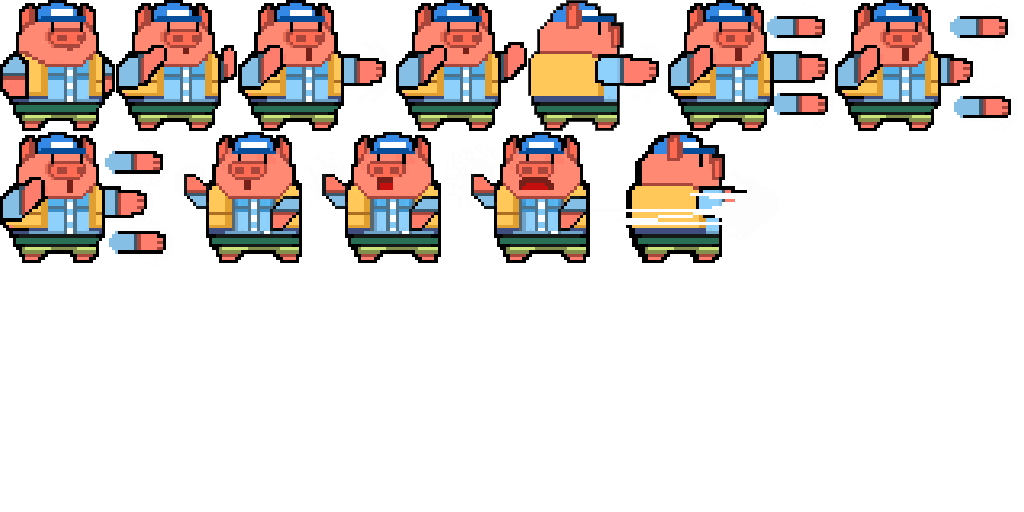
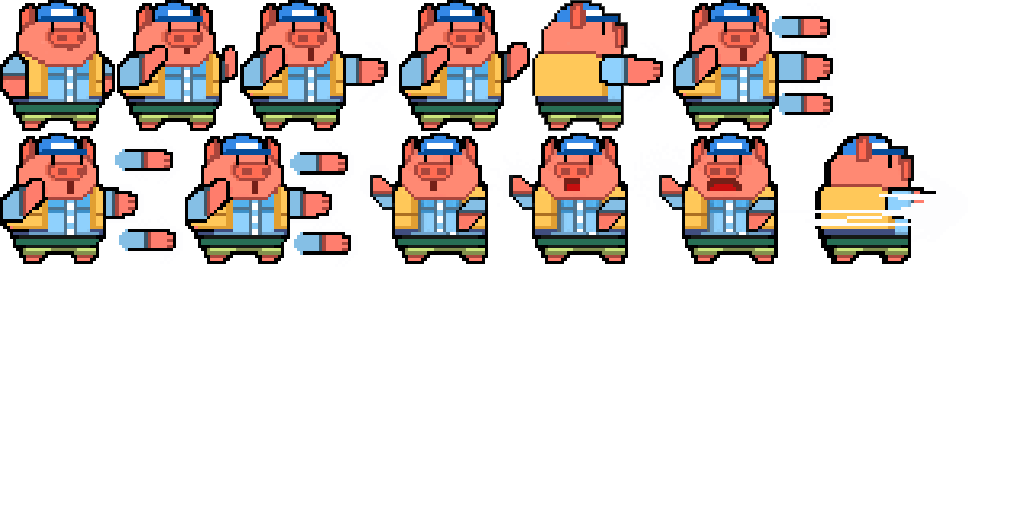
更新猪攻击动画

Changed region(s): [[0.0, 0.0, 1.0, 0.5312], [0.125, 0.0, 0.1562, 0.0625]]

diff --git a/src/CommonMarco.h b/src/CommonMarco.h
@@ -28,6 +28,12 @@ const int MAP_SIZE[MAX_MAP][MAX_BACKROLLLAYER] = { { 5, 5, 2, 0 }, { 0, 0, 0, 0 
 #define MONSTER1_TAG "monster1"
 #define MONSTER2_TAG "monster2"
 
+#define CC_CALLBACK_4(__selector__,__target__, ...) std::bind(&__selector__,__target__, std::placeholders::_1, std::placeholders::_2, std::placeholders::_3, std::placeholders::_4, ##__VA_ARGS__)
+
+#define PIG_ATTACK_BEGIN_FRAME_EVENT_NAME "Attack_Begin"
+#define PIG_ATTACK_END_FRAME_EVENT_NAME "Attack_End"
+#define PIG_ATTACK_MAX_COUNT 3
+
 #define A2B 4
 #define TOO_SMALL_FLOAT 0.001f
 
